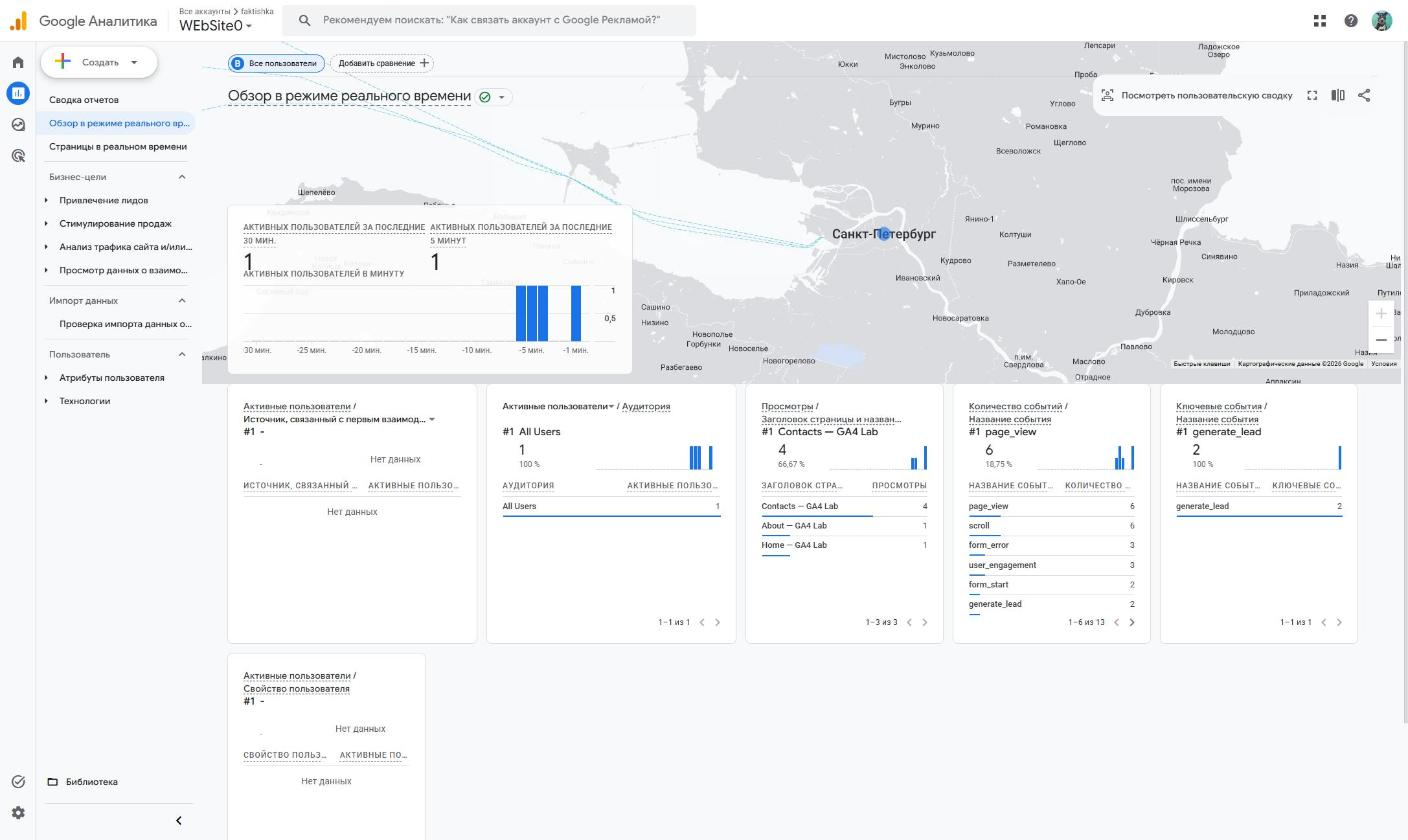
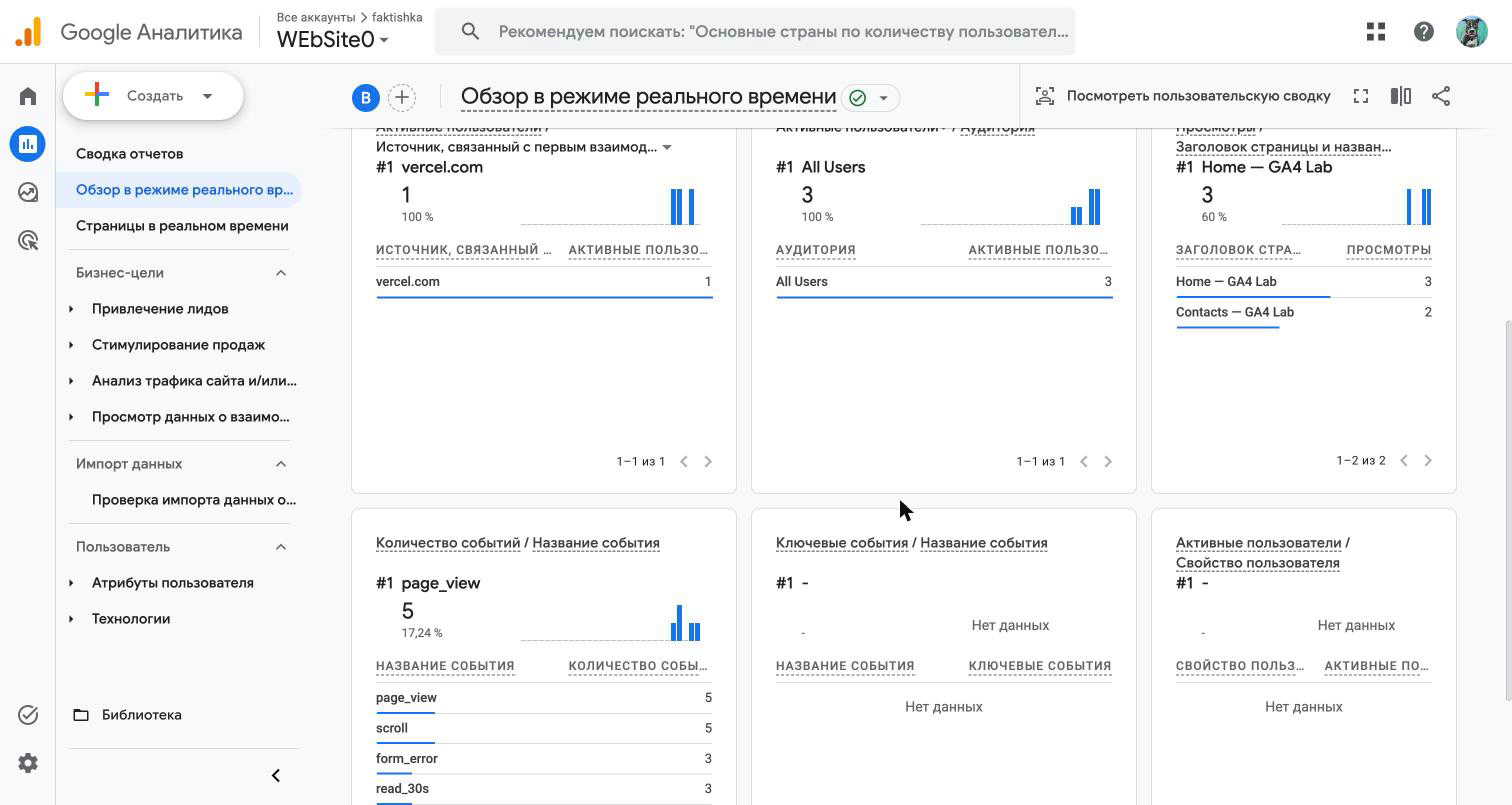
hw-03: тег, источник и отчёты GA4 — финальная редакция и кадры

diff --git a/lesson_03/homework_03.md b/lesson_03/homework_03.md
@@ -5,10 +5,10 @@
 | Поле | Значение |
 |---|---|
 | Фамилия, имя, отчество | Сдобников Андрей Андреевич |
-| Группа | РПО-2 |
+| Группа | РПО 25/2 |
 | Номер работы | 3 |
 | Тема работы | Установка Google Tag, источник перехода и отчёты GA4 |
-| Дата сдачи | 22.10.2026 |
+| Дата сдачи | 05.11.2026 |
 
 ---
 
@@ -17,93 +17,114 @@
 | Поле | Значение |
 |---|---|
 | Адрес репозитория сайта | https://github.com/dothefuture/ga4-analytics-lab |
-| Публичный адрес сайта | https://ga4-analytics-lab-two.vercel.app/ |
+| Публичный адрес сайта | https://ga4-analytics-lab-two.vercel.app |
 | Статус публикации | READY |
-| Analytics Account | `faktishka` (ID 407664967) |
-| Property | `WEbSite0` (ID 553719591) |
+| Analytics Account | `faktishka` |
+| Property | `WEbSite0` |
 | Stream name | `ga4-analytics-lab` |
 | Website URL в потоке | https://ga4-analytics-lab-two.vercel.app |
 | Measurement ID (`G-…`) | `G-0DJ198TV26` |
-| Страницы с тегом | `index.html`, `about.html`, `contacts.html`, `guide.html` — по одному тегу сразу после `<head>` |
-
-Тег ставится на каждую страницу по одному разу: две копии дают двойные
-события.
+| Страницы с тегом | `index.html`, `about.html`, `contacts.html`, `guide.html` — по одному тегу в `<head>` |
 
 ## 2. Тег установлен
 
 **Результат проверки из инструкции тега:**
 
-> «Инструкции по установке → Установка вручную → Протестируйте свой сайт»:
-> для адреса `https://ga4-analytics-lab-two.vercel.app` проверка прошла,
-> рядом с адресом зелёная галочка — тег Google на сайте обнаружен.
+> «Инструкции по установке → Установка вручную → Протестировать»: у адреса
+> `https://ga4-analytics-lab-two.vercel.app` загорелась зелёная галочка —
+> тег Google на сайте найден.
+
+### Кадр 1 · Проверка тега
 
 ![Сообщение об обнаружении тега Google](screens/01-tag-detected.png)
 
+> **Что на кадре.** Окно «Инструкции по установке», вкладка «Установка
+> вручную». Сверху код тега с моим `G-0DJ198TV26`, ниже поле «Протестируйте
+> свой сайт» с адресом сайта и зелёной галочкой — проверка прошла.
+
+### Кадр 2 · Тег в коде
+
 ![Код тега на странице, виден Measurement ID](screens/02-tag-in-code.png)
+
+> **Что на кадре.** `index.html` в моём репозитории на GitHub. Строки 4–13
+> подсвечены: это тег `gtag.js` с `G-0DJ198TV26`. Он стоит сразу после
+> `<head>`, как требует инструкция. В `config` добавлен `debug_mode`: он
+> включается параметром `?debug_mode=true` в адресе и нужен для DebugView
+> в задании 4.
 
 ## 3. События доходят до аналитики
 
 | Поле | Значение |
 |---|---|
-| Дата и время проверки | 22.10.2026, 00:10–00:16 (часовой пояс ресурса GMT+02:00) |
-| Какие страницы открывали | Home, About, Contacts |
-| Какие события появились в Realtime | `page_view`, `scroll`, `form_start`, `form_submit`, `form_error`, `generate_lead`, `nav_click`, `utm_visit`, `cta_click`, `read_30s`, `first_visit`, `session_start`, `user_engagement` |
-| Число активных пользователей в момент проверки | 1 |
+| Дата и время проверки | 05.11.2026, около 14:40 (МСК) |
+| Какие страницы открывали | `Home — GA4 Lab` (главная), `Contacts — GA4 Lab` |
+| Какие события появились в Realtime | `page_view` 5, `scroll` 5, `form_error` 3, `read_30s` 3 |
+| Число активных пользователей в момент проверки | 3 |
+
+### Кадр 3 · Realtime
 
 ![Realtime с событием page_view](screens/03-realtime.png)
 
-## 4. Источник перехода определился
+> **Что на кадре.** «Обзор в режиме реального времени». В карточке событий
+> первым идёт `page_view` — 5 штук. Справа видно, какие страницы смотрели:
+> Home 3 раза, Contacts 2 раза. Активных пользователей — 3.
 
-Ссылка собирается с метками `utm_source`, `utm_medium`, `utm_campaign`
-и открывается на своём сайте.
+## 4. Источник перехода определился
 
 **Ссылка целиком:**
 
 ```
-https://ga4-analytics-lab-two.vercel.app/guide.html?utm_source=instagram&utm_medium=social&utm_campaign=backend_guide
+https://ga4-analytics-lab-two.vercel.app/?utm_source=telegram&utm_medium=social&utm_campaign=ga4_lab
 ```
 
 | Поле | Значение |
 |---|---|
-| Где в GA4 виден источник | Отчёты → Привлечение лидов → Привлечение трафика, измерение «Источник/канал сеанса», период 24 сент. – 21 окт. 2026 |
-| Какое значение источника показал GA4 | `instagram / social` (1 сеанс), канал Organic Social |
+| Где в GA4 виден источник | Отчёты → Привлечение лидов → Привлечение трафика, измерение «Источник/канал сеанса» |
+| Какое значение источника показал GA4 | `telegram / social` |
 | Совпадает с `utm_source` из ссылки | да |
+
+### Кадр 4 · Источник перехода
 
 ![Источник перехода в GA4](screens/04-source.png)
 
-Переход 22.10.2026 по ссылке с `utm_source=telegram&utm_medium=social`
-пока виден только в DebugView (событие `utm_visit`, source = `telegram`).
-В стандартные отчёты он попадёт после обработки данных, в течение суток.
+> **Что на кадре.** Отчёт «Привлечение трафика» за 8 октября — 4 ноября.
+> Всего 7 сеансов. Строка 4 — `telegram / social`: это мой переход по ссылке
+> выше. Ещё видны `instagram / social` (проверка из задания 7),
+> `(direct) / (none)` и тестовый `test / qa`.
 
 ## 5. Статистика на странице «Отчёты»
 
 | Показатель | Значение | Период |
 |---|---|---|
-| Пользователи | 6 активных, из них 3 новых | 24 сент. – 21 окт. 2026 |
-| Сеансы | 8 | 24 сент. – 21 окт. 2026 |
-| События | 75 | 24 сент. – 21 окт. 2026 |
-| Самое частое событие | `page_view` — 19 | 24 сент. – 21 окт. 2026 |
+| Пользователи | 6 активных, из них 3 новых | 08.10.2026 – 04.11.2026 |
+| Сеансы | 7 | 08.10.2026 – 04.11.2026 |
+| События | в карточке сводки не выводится; в Realtime за 30 минут — 29 событий | 05.11.2026 |
+| Самое частое событие | `page_view` | 05.11.2026 |
+
+### Кадр 5 · Сводка отчётов
 
 ![Страница «Отчёты» со статистикой](screens/05-reports.png)
 
-**Что видно по этим числам** (2–3 предложения):
+> **Что на кадре.** «Сводка отчётов» за последние 28 дней: 6 активных
+> пользователей, 3 новых. На графике пики в дни, когда я проверял сайт.
+> Справа: за последние 30 минут 3 активных пользователя, страна — Russia.
+> Внизу каналы: Organic Social 3 сеанса, Direct 2, Unassigned 2.
 
-> Трафик учебный и небольшой: 6 пользователей за 4 недели, всплески
-> совпадают с днями занятий (27.09, 29.09, 13.10, 16.10). Половина сеансов —
-> прямые заходы, остальные пришли по размеченным ссылкам (instagram, test)
-> и с vercel.com. На один сеанс приходится около 9 событий: посетители
-> не только открывают страницу, но и ходят по сайту и нажимают кнопки.
+**Что видно по этим числам:**
+
+> Сайт учебный, поэтому посетители — это я и мои проверки с разных
+> устройств. Зато видно, что метки работают: переходы из Telegram
+> и Instagram попали в Organic Social, а не в Direct. Сеансы без меток GA4
+> честно записал как Direct или Unassigned.
 
 ## 6. Что не получилось
 
-> В потоке был указан URL `…/contacts.html` вместо корня сайта — исправил
-> на `https://ga4-analytics-lab-two.vercel.app`. На сбор данных это
-> не влияло: поток принимает данные по Measurement ID, а не по URL.
+> Всё получилось.
 
 ## 7. Использование ИИ
 
 | Вопрос | Ответ |
 |---|---|
-| Что сделано самостоятельно | установка тега на страницы, публикация на Vercel, проверка тега, Realtime и отчёты в своём ресурсе |
-| Что спрошено у модели | помощь со снятием кадров и оформлением бланка |
-| Что после этого изменено | значения в бланке сверены с кадрами из своего ресурса GA4 |
+| Что сделано самостоятельно | вставил тег на все страницы, опубликовал сайт на Vercel, проверил тег, открывал сайт по UTM-ссылке, снял кадры |
+| Что спрошено у модели | почему источник из UTM не виден в Realtime |
+| Что после этого изменено | стал искать источник в отчёте «Привлечение трафика», а не в Realtime |
